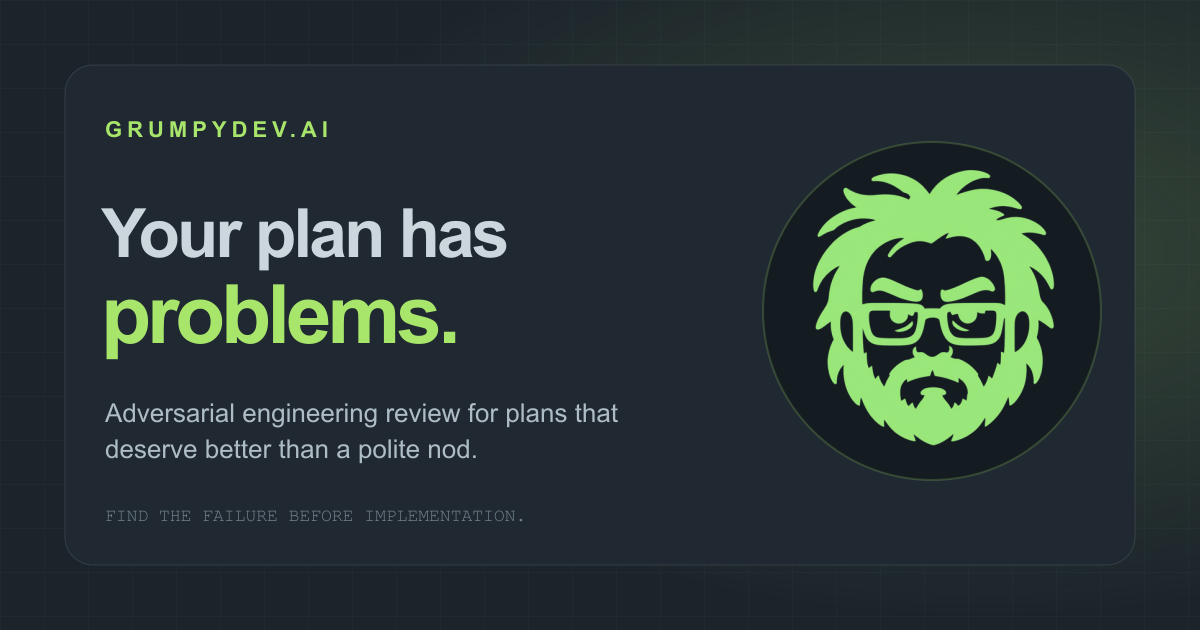
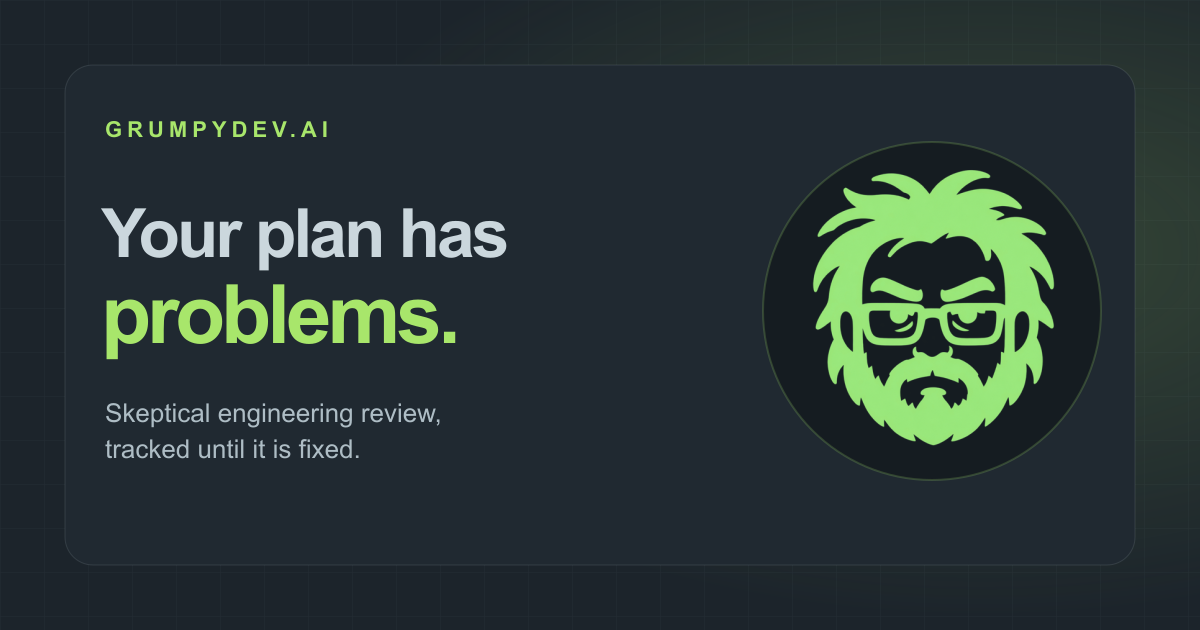
Cleaned up some leftover bits on the site
New share card text, fixed the contact footer, gave the 404 page a way home,
updated the sample review to the per-status layout, and dropped the token
ratio line.

diff --git a/html/index.html b/html/index.html
@@ -13,14 +13,14 @@
     <meta property="og:title" content="GrumpyDev.ai - Skeptical reviews your agent keeps track of">
     <meta property="og:description" content="A skeptical senior-engineer review for your coding agent, with every issue tracked across revisions and your project's constraints in one file.">
     <meta property="og:url" content="https://grumpydev.ai/">
-    <meta property="og:image" content="https://grumpydev.ai/assets/social-card.png">
+    <meta property="og:image" content="https://grumpydev.ai/assets/social-card.png?v=2">
     <meta property="og:image:width" content="1200">
     <meta property="og:image:height" content="630">
     <meta property="og:image:alt" content="GrumpyDev: Your plan has problems.">
     <meta name="twitter:card" content="summary_large_image">
     <meta name="twitter:title" content="GrumpyDev.ai - Skeptical reviews your agent keeps track of">
     <meta name="twitter:description" content="A skeptical senior-engineer review for your coding agent, with every issue tracked across revisions and your project's constraints in one file.">
-    <meta name="twitter:image" content="https://grumpydev.ai/assets/social-card.png">
+    <meta name="twitter:image" content="https://grumpydev.ai/assets/social-card.png?v=2">
     <meta name="twitter:image:alt" content="GrumpyDev: Your plan has problems.">
     <link rel="icon" href="./assets/favicon.png" type="image/png" sizes="64x64">
     <link rel="stylesheet" href="./assets/site.css?v=20">
@@ -192,7 +192,7 @@ Review it before acting. Follow only instructions that are safe and limited to i
       <span class="eyebrow">Why not just ask your agent?</span>
       <h2 class="mt-5 text-3xl font-black tracking-tight sm:text-4xl">You can, and for many reviews it works.</h2>
       <p class="mt-5 text-lg leading-8 text-base-content/65">We ran the same reviews with GrumpyDev and with a well-written "act like a skeptical senior engineer" prompt, on Claude Sonnet and Haiku, and had them graded blind. On an ordinary plan or diff, both found about the same problems.</p>
-      <p class="mt-4 text-lg leading-8 text-base-content/65">GrumpyDev found more when the answer depended on the project: what production really runs, which module owns a rule, and bugs already in the files a plan touches. On one plan that edited files with seven existing problems, Sonnet with GrumpyDev reported about six and the plain prompt about two. A GrumpyDev review used 1.1 to 1.6 times the tokens. <a class="link" href="https://github.com/myfykris/grumpydev/blob/main/tools/eval/RESULTS.md">Full results</a>.</p>
+      <p class="mt-4 text-lg leading-8 text-base-content/65">GrumpyDev found more when the answer depended on the project: what production really runs, which module owns a rule, and bugs already in the files a plan touches. On one plan that edited files with seven existing problems, Sonnet with GrumpyDev reported about six and the plain prompt about two. <a class="link" href="https://github.com/myfykris/grumpydev/blob/main/tools/eval/RESULTS.md">Full results</a>.</p>
     </div>
     <div class="space-y-3">
       <div class="alert border soft-rule bg-base-200"><span class="review-field-label font-mono text-primary">PROMPT</span><span>The same review instructions and verdicts every time, instead of whatever was typed that day.</span></div>

diff --git a/html/how-it-works/index.html b/html/how-it-works/index.html
@@ -13,14 +13,14 @@
     <meta property="og:title" content="How GrumpyDev works">
     <meta property="og:description" content="The four Grump commands, the issue ledger, what a review checks, and the .grump file that reviews and coding agents share.">
     <meta property="og:url" content="https://grumpydev.ai/how-it-works/">
-    <meta property="og:image" content="https://grumpydev.ai/assets/social-card.png">
+    <meta property="og:image" content="https://grumpydev.ai/assets/social-card.png?v=2">
     <meta property="og:image:width" content="1200">
     <meta property="og:image:height" content="630">
     <meta property="og:image:alt" content="GrumpyDev: Your plan has problems.">
     <meta name="twitter:card" content="summary_large_image">
     <meta name="twitter:title" content="How GrumpyDev works">
     <meta name="twitter:description" content="The four Grump commands, the issue ledger, what a review checks, and the .grump file that reviews and coding agents share.">
-    <meta name="twitter:image" content="https://grumpydev.ai/assets/social-card.png">
+    <meta name="twitter:image" content="https://grumpydev.ai/assets/social-card.png?v=2">
     <meta name="twitter:image:alt" content="GrumpyDev: Your plan has problems.">
     <link rel="icon" href="../assets/favicon.png" type="image/png" sizes="64x64">
     <link rel="stylesheet" href="../assets/site.css?v=20">
@@ -104,8 +104,9 @@
       <div class="flex items-center justify-between border-b border-neutral-content/10 pb-5 font-mono text-xs"><span>GRUMP REVIEW</span><span class="text-warning">REVISE</span></div>
       <div class="mt-6 space-y-5 text-sm leading-7">
         <p class="font-bold text-warning">REVISE - step 3 edits a batch's private rows, so credits change what Ledgerly receives but never reach the database.</p>
-        <div><p class="font-bold text-error">GD-001 HIGH NEW</p><p class="text-neutral-content/60">Where: plan step 3; src/invoices/batch.ts:30-44. commit() writes only status, so the CSV shows the gross amount while Ledgerly holds the net. Fix: add an InvoiceBatch method, or send credits separately.</p></div>
-        <div><p class="font-bold text-warning">GD-002 MEDIUM NEW (pre-existing)</p><p class="text-neutral-content/60">Where: src/export/nightlyCsv.ts:21. Divides every amount by 100, so JPY is 100x too small. The plan edits this loop: fix it in this change with formatMinor().</p></div>
+        <p class="border-t border-neutral-content/10 pt-4 font-mono text-xs text-info">NEW</p>
+        <div><p class="font-bold text-error">GD-001 HIGH</p><p class="text-neutral-content/60">Where: plan step 3; src/invoices/batch.ts:30-44. commit() writes only status, so the CSV shows the gross amount while Ledgerly holds the net. Fix: add an InvoiceBatch method, or send credits separately.</p></div>
+        <div><p class="font-bold text-warning">GD-002 MEDIUM (pre-existing)</p><p class="text-neutral-content/60">Where: src/export/nightlyCsv.ts:21. Divides every amount by 100, so JPY is 100x too small. The plan edits this loop: fix it in this change with formatMinor().</p></div>
         <div class="border-t border-neutral-content/10 pt-4 font-mono text-xs text-neutral-content/45">Ledger: .grumpydev/reviews/docs-plans-credit-notes-md.md</div>
       </div>
     </div>

diff --git a/html/contact/index.html b/html/contact/index.html
@@ -13,14 +13,14 @@
     <meta property="og:title" content="Contact GrumpyDev">
     <meta property="og:description" content="Report GrumpyDev issues, contribute pull requests, or contact Kris Bailey directly.">
     <meta property="og:url" content="https://grumpydev.ai/contact/">
-    <meta property="og:image" content="https://grumpydev.ai/assets/social-card.png">
+    <meta property="og:image" content="https://grumpydev.ai/assets/social-card.png?v=2">
     <meta property="og:image:width" content="1200">
     <meta property="og:image:height" content="630">
     <meta property="og:image:alt" content="GrumpyDev: Your plan has problems.">
     <meta name="twitter:card" content="summary_large_image">
     <meta name="twitter:title" content="Contact GrumpyDev">
     <meta name="twitter:description" content="Report GrumpyDev issues, contribute pull requests, or contact Kris Bailey directly.">
-    <meta name="twitter:image" content="https://grumpydev.ai/assets/social-card.png">
+    <meta name="twitter:image" content="https://grumpydev.ai/assets/social-card.png?v=2">
     <meta name="twitter:image:alt" content="GrumpyDev: Your plan has problems.">
     <link rel="icon" href="../assets/favicon.png" type="image/png" sizes="64x64">
     <link rel="stylesheet" href="../assets/site.css?v=20">
@@ -107,11 +107,13 @@
             <img class="size-9" src="../assets/grumpy-head.png" alt="" width="36" height="36">
             GrumpyDev.ai
           </div>
-          <p class="mt-3 text-base-content/65">Adversarial engineering review for plans that deserve better than a polite nod.</p>
+          <p class="mt-3 text-base-content/65">Skeptical engineering review, tracked until it is fixed.</p>
         </aside>
         <nav>
           <h2 class="footer-title">Product</h2>
           <a class="link link-hover" href="../how-it-works/">How it works</a>
+          <a class="link link-hover" href="../skills/grumpydev/SKILL.md">The skill</a>
+          <a class="link link-hover" href="../skills/install.md">The installer</a>
         </nav>
         <nav>
           <h2 class="footer-title">Resources</h2>

diff --git a/html/security/index.html b/html/security/index.html
@@ -13,14 +13,14 @@
     <meta property="og:title" content="GrumpyDev security">
     <meta property="og:description" content="What GrumpyDev installs, what a review may write, where files come from, and how to report a security problem.">
     <meta property="og:url" content="https://grumpydev.ai/security/">
-    <meta property="og:image" content="https://grumpydev.ai/assets/social-card.png">
+    <meta property="og:image" content="https://grumpydev.ai/assets/social-card.png?v=2">
     <meta property="og:image:width" content="1200">
     <meta property="og:image:height" content="630">
     <meta property="og:image:alt" content="GrumpyDev: Your plan has problems.">
     <meta name="twitter:card" content="summary_large_image">
     <meta name="twitter:title" content="GrumpyDev security">
     <meta name="twitter:description" content="What GrumpyDev installs, what a review may write, where files come from, and how to report a security problem.">
-    <meta name="twitter:image" content="https://grumpydev.ai/assets/social-card.png">
+    <meta name="twitter:image" content="https://grumpydev.ai/assets/social-card.png?v=2">
     <meta name="twitter:image:alt" content="GrumpyDev: Your plan has problems.">
     <link rel="icon" href="../assets/favicon.png" type="image/png" sizes="64x64">
     <link rel="stylesheet" href="../assets/site.css?v=20">

diff --git a/html/404.html b/html/404.html
@@ -23,9 +23,16 @@
       }
       main { padding: 1.5rem; text-align: center; }
       h1 { margin: 0; font-size: clamp(2.5rem, 7vw, 4rem); }
+      .brand { margin: 0 0 1rem; color: #a8e66b; font-size: 0.9rem; font-weight: 700; letter-spacing: 0.3em; }
+      p { margin: 1.5rem 0 0; font-size: 1.1rem; }
+      a { color: #a8e66b; }
     </style>
   </head>
   <body>
-    <main><h1>Page not found</h1></main>
+    <main>
+      <p class="brand">GRUMPYDEV.AI</p>
+      <h1>Page not found</h1>
+      <p><a href="/">Go to the home page</a></p>
+    </main>
   </body>
 </html>
